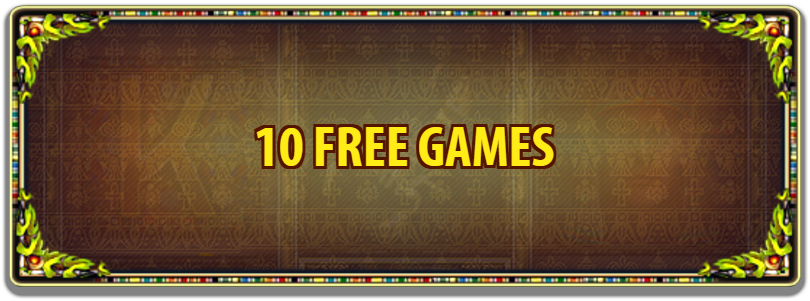
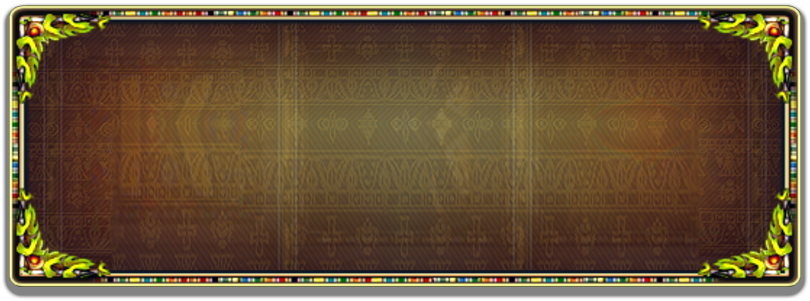
riddleofthesphinx ready

diff --git a/resources/assets/sass/divslot/games/riddleofthesphinx.scss b/resources/assets/sass/divslot/games/riddleofthesphinx.scss
@@ -1,88 +1,45 @@
-@import "../reset";
-@import "../fonts";
-@import "../animations";
-@import "../media/media";
-@import "../preloader";
-@import "../panel";
+@import "../game_types/with_borders";
+@import "../help_types/help_substitution";
 
-* {
-    -webkit-user-select: none;
-    -moz-user-select: none;
-    -ms-user-select: none;
-    user-select: none;
-}
-
-body {
-    font-family: "Oswald",  sans-serif;
-    overflow: hidden;
-}
-
-.game_wrapper {
-    position: fixed;
-    width: 1680px;
-    height: 1050px;
-}
-
-#game {
-    width: 1680px;
-    height: 1050px;
-    background: #080200;
-    overflow: hidden;
-    position: absolute;
-}
-.alert {
-    display: none;
-
-    position: absolute;
-    z-index: 600;
-    width: 100%;
-    height: 100%;
-
-    align-items: center;
-    justify-content: center;
-}
 .alert .content {
-    width: 50%;
-    min-width: 300px;
-    height: 50%;
-    min-height: 200px;
-    background: lightseagreen;
-    border-radius: 10px;
+    background: url('../img/games/riddleofthesphinx/images/freeSpinBg.png');
+    width: 801px;
+    height: 302px;
+    font-size: 44px;
+    color: #FDEA52;
+    text-shadow: -2px -2px 2px #4D1907, 2px 2px 2px #4D1907, -2px 2px 2px #4D1907, 2px -2px 2px #4D1907;
+    font-weight: 600;
+    text-align: center;
+    text-transform: uppercase;
+    display: flex;
+    justify-content: center;
+    align-items: center;
+    box-sizing: border-box;
+    padding: 50px;
 }
 .main {
-
-    width: 1680px;
-    height: 731px;
     background: url('../img/games/riddleofthesphinx/game_bg.png') center center;
-    background-size: contain;
-    position: absolute;
-}
-
-.reels_wrapper {
-    display: flex;
-    flex-direction: row;
-    justify-content: center;
-    z-index: 1;
-    padding-top: 10px;
-    box-sizing: border-box;
 }
 
 .line_presenters_container {
-    display: flex;
-    flex-direction: column;
-    justify-content: space-between;
-    margin: 4px 13px 0;
-    height: 692px;
+    top: 13px;
+    height: 635px;
+
+    &.right {
+        right: 8px;
+    }
+    &.left {
+        left: 8px;
+    }
 }
 
 .line_presenter {
     background-image: url('../img/line_presenter_glare.png');
-
     background-size: 100% 100%;
     font-size: 32px;
-    width: 54px;
-    height: 54px;
-    border-radius: 5px;
+    width: 53px;
+    height: 53px;
+    border-radius: 50%;
     box-shadow: 0px 0px 5px 0px rgba(0,0,0,0.75);
     cursor: pointer;
     display: flex;
@@ -90,28 +47,138 @@ body {
     align-items: center;
 }
 
-.reels_container {
-    display: flex;
-    position: relative;
-}
-
 .reel_wrapper {
     background: url('../img/games/riddleofthesphinx/reel_bg.png');
-    background-size: cover;
-    position: relative;
-    overflow: hidden;
 }
-
-.reel {
-    position: absolute;
-    bottom: 0;
-    left: 0;
-}
-
 .header {
-    width: 100%;
-    height: 105px;
     background: url('../img/games/riddleofthesphinx/header.png');
-    background-size: 100% 100%;
 }
+.gamble {
+    background: url('../img/games/riddleofthesphinx/gamble/gamble_bg.png');
+    background-size: 100% 100%;
+    top: 152px;
+    height: 683px;
+    width: 1400px;
+}
+.help {
+    background-image: url('../img/games/bookofwinner/help/border_bg.png');
+    z-index:3;
+}
+.help__btn_next {
+    background-image: url('../img/games/bookofwinner/help/next_btn_bg.gif');
+}
+.help__btn_prev {
+    background-image: url('../img/games/bookofwinner/help/prev_btn_bg.gif');
+}
+.help__btn_close {
+    background-image: url('../img/games/bookofwinner/help/close_btn_bg.gif');
+}
+.help__slide_1 {
+    background-image: url('../img/games/riddleofthesphinx/help/slide_bg_1.png');
+}
+.help__slide_2 {
+    background-image: url('../img/games/riddleofthesphinx/help/slide_bg_2.png');
+}
+.help__prize_container {
+    position: absolute;
 
+    div {
+        font-size: 26px;
+        line-height: 43px;
+        text-align: center;
+        color: #fff;
+        letter-spacing: 3px;
+        text-shadow: -2px -2px 2px #000, 2px 2px 2px #000, -2px 2px 2px #000, 2px -2px 2px #000;
+        width: 177px;
+        height: 43px;
+    }
+    &[data-symbols='12 11'] {
+        top: 310px;
+        left: 29px;
+    }
+    &[data-symbols='12 11'][data-joker] {
+        top: 311px;
+        left: 231px;
+    }
+    &[data-symbols='2 7'] {
+        top: 625px;
+        left: 31px;
+    div {
+        margin-bottom: 3px;
+    }
+    }
+    &[data-symbols='2 7'][data-joker] {
+        top: 628px;
+    left: 224px;
+    div {
+        margin-bottom: 3px;
+    }
+    }
+    &[data-symbols='4'] {
+        top: 808px;
+        left: 265px;
+        div {
+            margin-bottom: 1px;
+        }
+    }
+    
+    &[data-symbols='9'] {
+        top: 293px;
+        left: 479px;
+    }
+    &[data-symbols='9'][data-joker]{
+        top: 293px;
+        left: 676px;
+    }
+    &[data-symbols='3'] {
+        top: 469px;
+        left: 671px;
+        div {
+            margin-bottom: 0px;
+        }
+    }
+    &[data-symbols='1 6 10'] {
+        top: 788px;
+        left: 476px;
+        div {
+            margin-bottom: 0px;
+        }
+    }
+    &[data-symbols='1 6 10'][data-joker] {
+        top: 788px;
+        left: 676px;
+        div {
+            margin-bottom: 0px;
+        }
+    }
+    &[data-symbols='5 8'] {
+        top: 305px;
+        right: 212px;
+    div {
+        margin-bottom: 3px;
+    }
+    }
+    &[data-symbols='5 8'][data-joker] {
+        top: 305px;
+        right: 15px;
+    div {
+        margin-bottom: 3px;
+    }
+    }
+    &[data-symbols='0'] {
+        top: 581px;
+        right: 224px;
+        div {
+            margin-bottom: 3px;
+        }
+    }
+    &[data-symbols='0'][data-joker] {
+        top: 581px;
+        right: 17px;
+        div {
+            margin-bottom: 3px;
+        }
+    }
+    
+    
+}

diff --git a/public/js/riddleofthesphinx_settings.js b/public/js/riddleofthesphinx_settings.js
@@ -1,6 +1,6 @@
 var settings = {
-    "symbolSize": 233,
-    "spaceBetweenReels": 35,
+    "symbolSize": 220,
+    "spaceBetweenReels": 30,
 
     "numOfRows": 3,
     "numOfReels": 5,
@@ -16,8 +16,7 @@ var settings = {
     // due to the slow browsers perfomance
     "delayBeforeStartReelsSpin": 200,
     "spinAnimationTimeInMs": 1000,
-    "spinAnimTimingFunc": "ease-in-out",
-    "fallAnimTimingFunc": "cubic-bezier(.79,1.51,.74,.84)",
+
 
     "gamblePreviousCardsAmount": 7,
     "gambleExtended": true,
@@ -29,7 +28,7 @@ var settings = {
         {"image": "1.png"},
         {"image": "2.png"},
         {"image": "3.png"},
-        {"image": "4.png", "animation": "4Anim.png"},
+        {"image": "4.png"},
         {"image": "5.png"},
         {"image": "6.png"},
         {"image": "7.png"},

diff --git a/resources/views/games/riddleofthesphinx.blade.php b/resources/views/games/riddleofthesphinx.blade.php
@@ -4,6 +4,24 @@
     <link href="{{asset('public/css/riddleofthesphinx.css')}}" rel=stylesheet type=text/css>
 @endsection
     
+@section('help')
+
+    @component('games.parts.help')
+        @slot('helpValues')
+            {{--  <div data-symbols="6" class="help__prize_container"></div>
+            <div data-symbols="3" class="help__prize_container"></div>
+            <div data-symbols="1 5" class="help__prize_container"></div>
+
+            <div data-symbols="0" class="help__prize_container"></div>
+
+            <div data-symbols="8" class="help__prize_container"></div>
+            <div data-symbols="9" class="help__prize_container"></div>
+            <div data-symbols="2 4" class="help__prize_container"></div>  --}}
+        @endslot
+    @endcomponent
+
+@endsection
+
 @section('js')
     @parent
     <script src="{{asset('public/js/riddleofthesphinx_settings.js')}}"></script>

diff --git a/app/Game/Games/RiddleOfTheSphinx.php b/app/Game/Games/RiddleOfTheSphinx.php
@@ -30,11 +30,11 @@ class RiddleOfTheSphinx extends Game {
     }
 
     public function spin() {
-        return $this->game->spin("checkForWinCombosScatterAsJoker");
+        return $this->game->spin("checkForWinCombosTrippleScatter", "generateFinalSymbolsTrippleScatter");
     }
 
     public function bonusSpin() {
-        return $this->game->bonusSpin("Substitution");
+        return $this->game->bonusSpin("FreeSpinsTrippleScatter");
     }
 
     public function areBonusSpins() {
